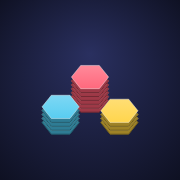
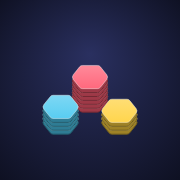
Round the corners of all hexagons
Draw hexagons with rounded corners (tiles, cells, blocked cells, board
outline) and regenerate the app icons to match. Bump the cache version.

Claude-Session: https://claude.ai/code/session_011nqvVdtuMwp6JAtnYx9Btr

diff --git a/game.js b/game.js
@@ -8,6 +8,7 @@
   const Y_SCALE = 0.72;        // vertical squash for a tilted look
   const TILE_H = 0.17;         // tile thickness relative to hex size
   const TILE_R = 0.9;          // tile radius relative to cell size
+  const CORNER_ROUND = 0.2;    // hexagon corner rounding relative to radius
   const FLY_MS = 260;          // tile flight duration
   const STAGGER_MS = 60;       // delay between tiles in a transfer
   const POP_MS = 320;
@@ -272,12 +273,19 @@
   }
 
   // ---------- Drawing ----------
-  function hexPath(x, y, r, rot = 0) {
-    ctx.beginPath();
+  // Hexagon outline with rounded corners (corner radius is a fraction of r).
+  function hexPath(x, y, r, rot = 0, round = CORNER_ROUND) {
+    const pts = [];
     for (let i = 0; i < 6; i++) {
       const a = Math.PI / 3 * i + rot;
-      const px = x + r * Math.cos(a), py = y + r * Math.sin(a) * Y_SCALE;
-      if (i === 0) ctx.moveTo(px, py); else ctx.lineTo(px, py);
+      pts.push([x + r * Math.cos(a), y + r * Math.sin(a) * Y_SCALE]);
+    }
+    const cr = r * round;
+    ctx.beginPath();
+    ctx.moveTo((pts[5][0] + pts[0][0]) / 2, (pts[5][1] + pts[0][1]) / 2);
+    for (let i = 0; i < 6; i++) {
+      const p = pts[i], n = pts[(i + 1) % 6];
+      ctx.arcTo(p[0], p[1], n[0], n[1], cr);
     }
     ctx.closePath();
   }

diff --git a/sw.js b/sw.js
@@ -1,6 +1,6 @@
 /* Service worker: caches the whole game so it runs offline once installed.
    Bump CACHE whenever any file changes so phones pick up the new version. */
-const CACHE = 'colorslide-v2';
+const CACHE = 'colorslide-v3';
 const FILES = [
   './',
   './index.html',
